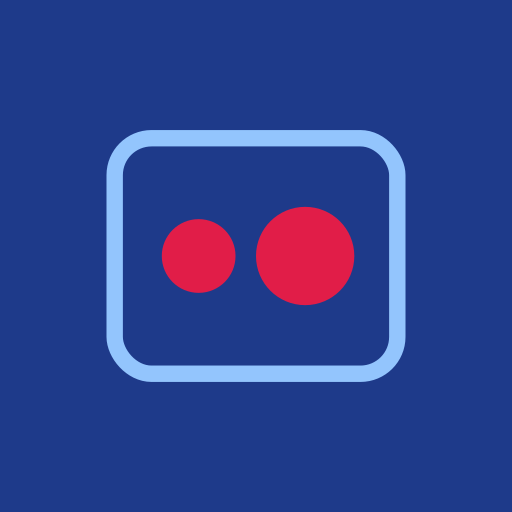
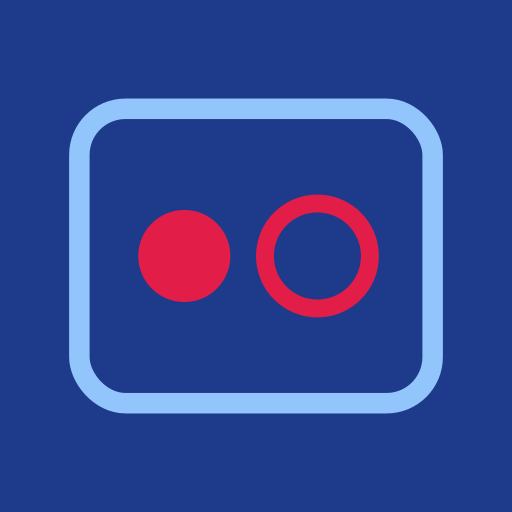
bpm-v60: squircle 240px splash matching launch, hollow right eye

Changed region(s): [[0.125, 0.1875, 0.875, 0.8125], [0.4375, 0.4375, 0.4688, 0.5625]]

diff --git a/index.html b/index.html
@@ -1,7 +1,8 @@
 <!doctype html><html lang="en"><head><meta charset="utf-8">
 <meta name="viewport" content="width=device-width,initial-scale=1,maximum-scale=1,user-scalable=no">
 <title>Marker</title><meta name="apple-mobile-web-app-title" content="Marker"><meta name="application-name" content="Marker"><link rel="manifest" href="manifest.json"><meta name="theme-color" content="#1e293b">
-<link rel="icon" href="icon.svg"><link rel="apple-touch-icon" href="icon-192.png"><link rel="stylesheet" href="app.css"></head><body><div id="splash" style="position:fixed;inset:0;z-index:99999;background:#0f172a;display:flex;align-items:center;justify-content:center;transition:opacity .4s;transform:none"><svg width="192" height="192" style="display:block;width:192px;height:192px;flex:none" xmlns="http://www.w3.org/2000/svg" viewBox="0 0 100 100"><rect width="100" height="100" rx="18" fill="#1e3a8a"/><rect x="15.5" y="21.25" width="69" height="57.5" rx="9" fill="none" stroke="#93c5fd" stroke-width="4"/><circle cx="62" cy="50" r="12" fill="#e11d48"/><circle cx="36" cy="50" r="9" fill="#e11d48"/></svg></div>
+<link rel="icon" href="icon.svg"><link rel="apple-touch-icon" href="icon-192.png"><link rel="stylesheet" href="app.css"></head><body><div id="splash" style="position:fixed;inset:0;z-index:99999;background:#0f172a;display:flex;align-items:center;justify-content:center;transition:opacity .4s;transform:none"><svg width="240" height="240" style="display:block;width:240px;height:240px;flex:none" xmlns="http://www.w3.org/2000/svg" viewBox="0 0 100 100"><rect width="100" height="100" rx="32" fill="#1e3a8a"/><rect x="15.5" y="21.25" width="69" height="57.5" rx="9" fill="none" stroke="#93c5fd" stroke-width="4"/><circle cx="62" cy="50" r="10.25" fill="none" stroke="#e11d48" stroke-width="3.5"/><circle cx="36" cy="50" r="9" fill="#e11d48"/></svg>
+</div>
 <div id="proj"><span title="Project">🗂</span><select id="projSel" title="Project"></select><button class="btn" id="projNew" title="New project">＋</button><button class="btn" id="projRen" title="Rename project">✎</button><button class="btn" id="projDel" title="Delete project">🗑</button><button class="btn" id="projSave" title="Save project file (.bpm) / export plans">💾<span class="lbl"> Save</span></button><label class="btn" id="projOpen" title="Open project file (.bpm)">📥<span class="lbl"> Open</span><input id="bpmFile" type="file" accept=".bpm,application/zip,application/octet-stream" hidden></label></div>
 <header id="top">
  <label class="btn" title="Open plan">📂<input id="file" type="file" accept="application/pdf,image/png,image/jpeg" hidden></label>

diff --git a/app.js b/app.js
@@ -753,7 +753,7 @@ async function unzipBlob(b){const T=Math.max(0,b.size-65557),tail=new DataView(a
   if(meth===8)blob=await new Response(blob.stream().pipeThrough(new DecompressionStream('deflate-raw'))).blob();else if(meth!==0)throw new Error('unsupported compression in '+name);out.set(name,{blob,crc})}return out}
 const fsafe=s=>String(s||'project').replace(/[\\/:*?"<>|]+/g,'_').trim()||'project';
 async function buildBpm(pid,withLearned,onP){const pr=await get('projects',pid),pls=(await all('plans')).filter(p=>p.projectId===pid).sort((a,b)=>a.added-b.added),files=[];
- const man={format:BPM_FMT,version:BPM_VER,app:'bpm-v59',saved:new Date().toISOString(),project:pr,plans:[],markups:[],pins:[],media:[],layers:{},meta:{},learned:null,mycodes:null};
+ const man={format:BPM_FMT,version:BPM_VER,app:'bpm-v60',saved:new Date().toISOString(),project:pr,plans:[],markups:[],pins:[],media:[],layers:{},meta:{},learned:null,mycodes:null};
  for(const pl of pls){const{blob,...m}=pl,f=`plans/${pl.id}.${pl.kind==='pdf'?'pdf':((blob?.type||'').split('/')[1]||'img')}`;if(blob)files.push({name:f,blob});man.plans.push({...m,file:blob?f:null,type:blob?.type||'',size:blob?.size||0});
   man.markups.push(...await byIdx('markups','planId',pl.id));const ps=await byIdx('pins','planId',pl.id);man.pins.push(...ps);
   for(const p of ps)for(const md of await byIdx('media','pinId',p.id)){const{blob:mb,annot,...r}=md,e={...r,file:null};if(mb){e.file=`media/${md.id}`;e.type=mb.type;e.size=mb.size;files.push({name:e.file,blob:mb})}if(annot){e.annotFile=`media/${md.id}-annot`;e.annotType=annot.type;files.push({name:e.annotFile,blob:annot})}man.media.push(e)}

diff --git a/sw.js b/sw.js
@@ -1,6 +1,6 @@
 // bpm-v38: app files are network-first (fresh code whenever online, cache when offline); the big vendor libraries are cache-first.
 // Precache bypasses the HTTP cache (cache:'reload') so an install can't mix old and new files.
-const C='bpm-v59',A=['./','index.html','app.js','app.css','detect.js','codes.json','vendor/pdf-lib.min.js','manifest.json','icon.svg','icon-192.png','icon-512.png','icon-maskable-512.png','vendor/pdf.min.js','vendor/pdf.worker.min.js','vendor/jspdf.umd.min.js'];
+const C='bpm-v60',A=['./','index.html','app.js','app.css','detect.js','codes.json','vendor/pdf-lib.min.js','manifest.json','icon.svg','icon-192.png','icon-512.png','icon-maskable-512.png','vendor/pdf.min.js','vendor/pdf.worker.min.js','vendor/jspdf.umd.min.js'];
 self.addEventListener('install',e=>{e.waitUntil(caches.open(C).then(c=>c.addAll(A.map(u=>new Request(u,{cache:'reload'})))));self.skipWaiting()});
 self.addEventListener('activate',e=>{e.waitUntil(caches.keys().then(k=>Promise.all(k.filter(x=>x!==C).map(x=>caches.delete(x)))).then(()=>self.clients.claim()))});
 self.addEventListener('fetch',e=>{const q=e.request;if(q.method!=='GET'||new URL(q.url).origin!==location.origin)return;
